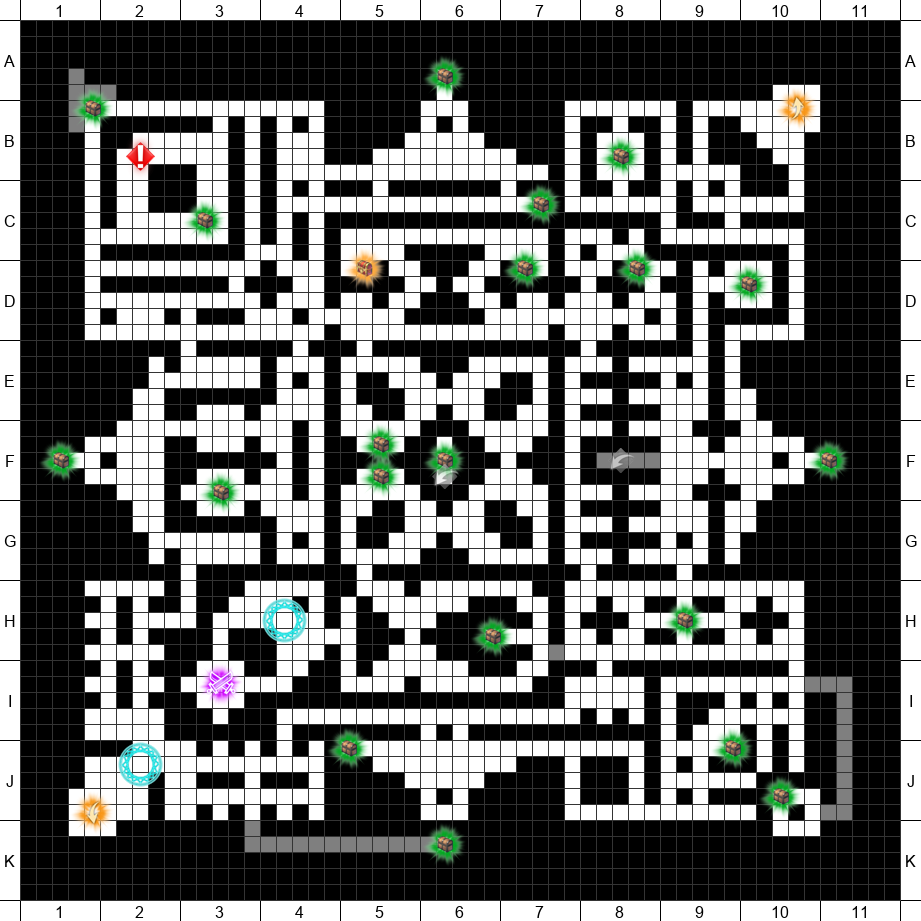
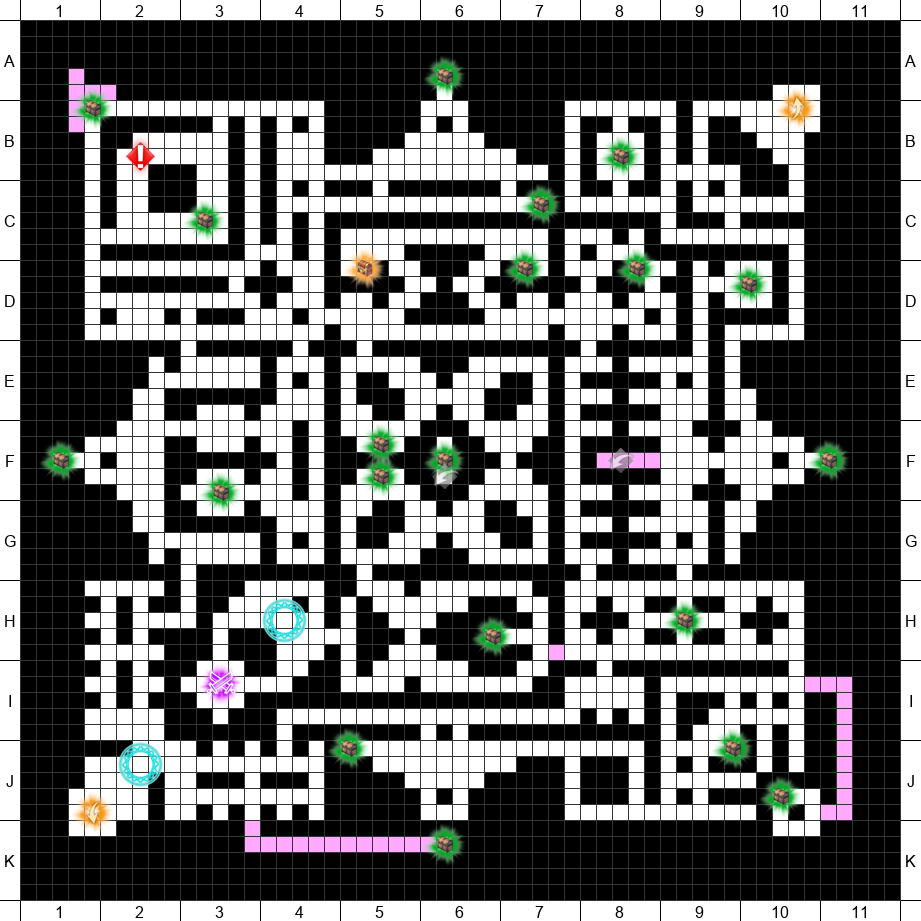
Re-rendered oblivion maps

diff --git a/maps/map_render_img.py b/maps/map_render_img.py
@@ -133,7 +133,7 @@ class RockCell(IconCell):
   icon = Image.open("./assets/rock.png")
 
   def __init__(self, x, y):
-    super().__init__(x, y, self.icon, (icon_size, icon_size))
+    super().__init__(x, y, self.icon, (icon_size * 1.6, icon_size * 1.6))
 
 # A cell that houses a 1F regular ice tile
 class IceBlockCell(IconCell):
@@ -154,7 +154,7 @@ class OblivionOrbCell(IconCell):
   icon = Image.open("./assets/oblivionorb.png")
 
   def __init__(self, x, y):
-    super().__init__(x, y, self.icon, (cell_size, cell_size))
+    super().__init__(x, y, self.icon, (cell_size * 2.5, cell_size * 2.5))
 
 # A cell that houses a 3F green orb
 class DreamArrowCell(IconCell):
@@ -398,7 +398,7 @@ class Oblivion2F(Floor):
 class Oblivion3F(Floor):
   tiles = [
     BossCell(73, 73, ""),
-    EventCell(58, 60, ""),
+    EventCell(60, 60, ""),
     EventCell(98, 98, ""),
     StairsDownCell(68, 68),
     RelayCircleCell(65, 65),
@@ -705,7 +705,7 @@ pixels = map_img.load()
 # Actually draw the grid and cells
 # floor = Oblivion1F()
 # floor = Oblivion2F()
-# floor = Oblivion3F()
+floor = Oblivion3F()
 # floor = DreamPath1F()
 # floor = DreamPath2F()
 # floor = Despair1F()
